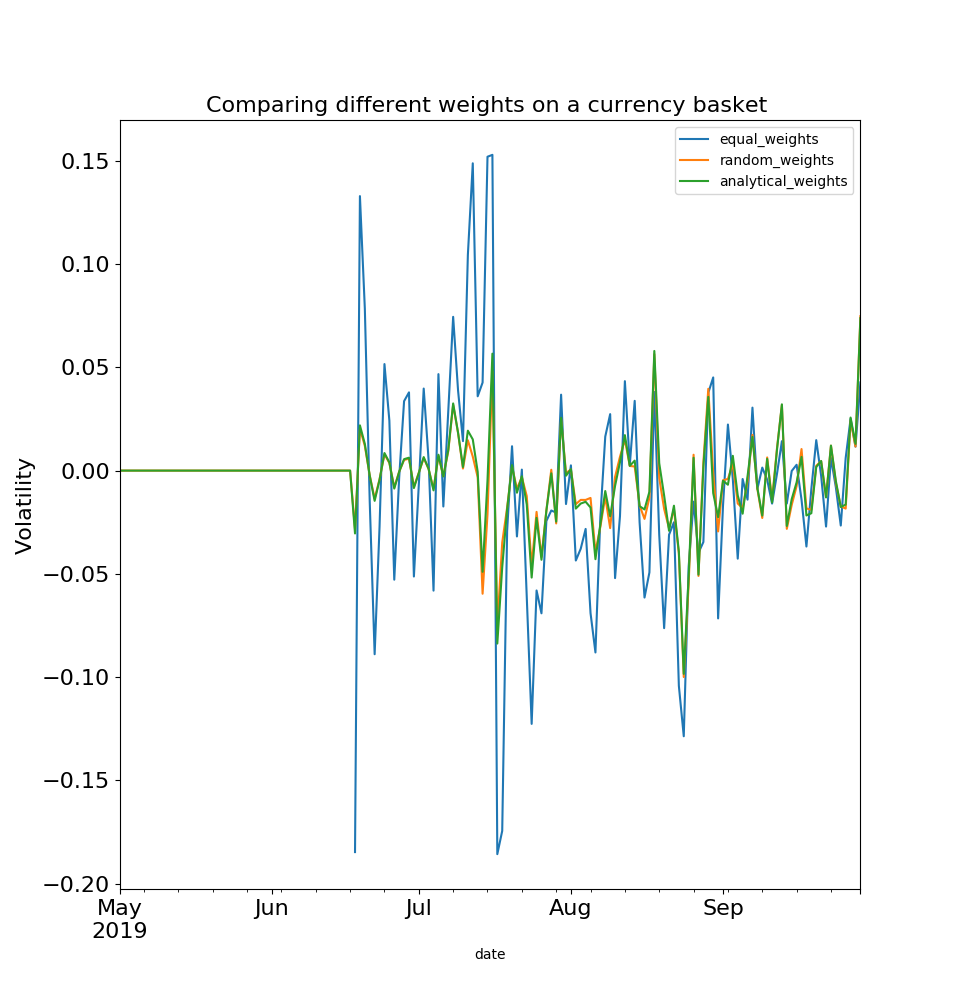
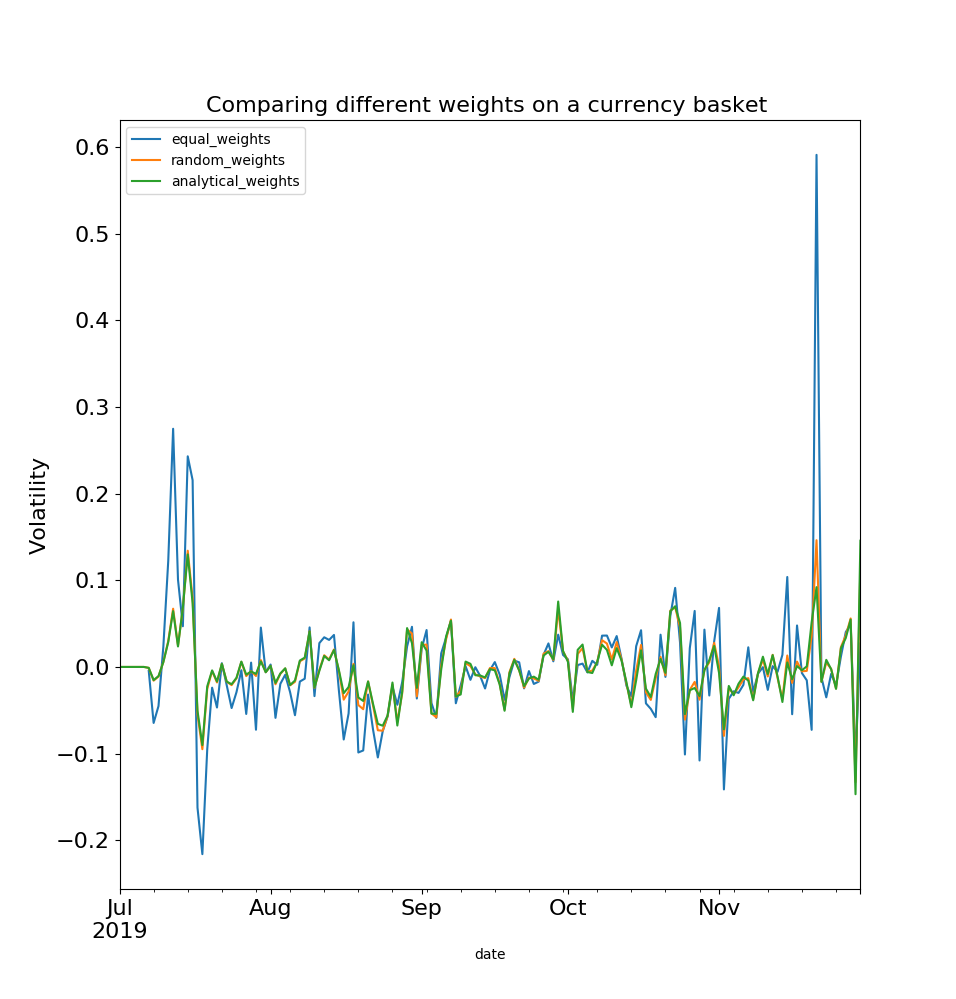
Updated dataset

diff --git a/scripts/stability_of_basket.py b/scripts/stability_of_basket.py
@@ -48,6 +48,11 @@ start_date = dt.datetime(2019,10,1)
 end_date = dt.datetime(2019,11,1)
 selected_symbols_oct = data_cleaning.universe_selection_on_volume(num_assets, start_date, end_date)
 
+#November
+start_date = dt.datetime(2019,11,1)
+end_date = dt.datetime(2019,12,1)
+selected_symbols_nov = data_cleaning.universe_selection_on_volume(num_assets, start_date, end_date)
+
 #Compare lists
 def symbols_diff(li1, li2): 
     li_dif = [i for i in li2 if i not in li1] 
@@ -67,6 +72,9 @@ diff = symbols_diff(selected_symbols_aug, selected_symbols_sep)
 
 diff = symbols_diff(selected_symbols_sep, selected_symbols_oct)
 #In Oct new larger volume symbols are ['CNNS-E16_BNB', 'AXPR-777_BNB']
+
+diff = symbols_diff(selected_symbols_oct, selected_symbols_nov)
+#In Nov new larger volume symbols are ['PYN-C37_BNB', 'EVT-49B_BNB']
 
 
 ###### 5 assets
@@ -107,10 +115,11 @@ start_date = dt.datetime(2019,10,1)
 end_date = dt.datetime(2019,11,1)
 selected_symbols_oct = data_cleaning.universe_selection_on_volume(num_assets, start_date, end_date)
 
-#Compare lists
-def symbols_diff(li1, li2): 
-    li_dif = [i for i in li2 if i not in li1] 
-    return li_dif 
+#November
+start_date = dt.datetime(2019,11,1)
+end_date = dt.datetime(2019,12,1)
+selected_symbols_nov = data_cleaning.universe_selection_on_volume(num_assets, start_date, end_date)
+
 
 #Jan-Mar have 0 symbols
 #April has 2, May has 7, June and onwards have at least 10
@@ -127,4 +136,5 @@ diff = symbols_diff(selected_symbols_aug, selected_symbols_sep)
 diff = symbols_diff(selected_symbols_sep, selected_symbols_oct)
 #In Oct new larger volume symbols is ['KAT-7BB_BNB']
 
-#Want to see how stable a given portfolio is in terms of resultant price
+diff = symbols_diff(selected_symbols_oct, selected_symbols_nov)
+#In Oct new larger volume symbols is ['MTV-4C6_BNB']

diff --git a/scripts/exploration.py b/scripts/exploration.py
@@ -2,11 +2,11 @@ import datetime as dt
 
 from scripts import data_cleaning
 
-start_date = dt.datetime(2019,9,1)
-end_date = dt.datetime(2019,9,30)
+start_date = dt.datetime(2019,1,1)
+end_date = dt.datetime(2019,12,1)
 
-selected_symbols = data_cleaning.universe_selection_on_volume(10, start_date, end_date)
+selected_symbols = data_cleaning.universe_selection_on_volume(5, start_date, end_date)
 
 #Things to look at: open, high, low, close, volume, quote_asset_volume, number_of_trades
-data_cleaning.data_explorer('number_of_trades', selected_symbols, start_date, end_date)
+data_cleaning.data_explorer('close', selected_symbols, start_date, end_date)
 

diff --git a/scripts/stablecoin.py b/scripts/stablecoin.py
@@ -13,8 +13,8 @@ from engine.portfolio_functions import simulated_ef
 from engine import portfolio_functions
 
 #Constant parameters
-start_date = dt.datetime(2019,5,1)
-end_date = dt.datetime(2019,9,30)
+start_date = dt.datetime(2019,7,1)
+end_date = dt.datetime(2019,12,1)
 num_assets = 5
 num_portfolios = 1000
 risk_free_rate = 0.02

diff --git a/scripts/data_cleaning.py b/scripts/data_cleaning.py
@@ -11,7 +11,7 @@ def load_from_pickle():
 	Function to load cached data from pickle file. 
 	'''
 	#Import raw data
-	file = open("./data/kline_data.pkl", 'rb')
+	file = open("./data/kline_data_new.pkl", 'rb')
 	df = pickle.load(file)
 
 	#Basic data processing

diff --git a/README.md b/README.md
@@ -36,6 +36,7 @@ This file contains functions for (i) loading in the pickled data file, (ii) sele
 
 This purpose of the analysis in this file is to understand how much variability there is in the composition of the stablecoin basket.
 For instance, if the 5 largest assets by volume are selected in one month, how many of these assets would be selected using data from the next month?
+
 **There appears to be significant volatility in terms of the membership of assets to the basket, with many pairs joining and leaving the top 10. Therefore the analysis mainly focusses on the top 5 assets by volume to keep the basket composition stable **
 
 In July, new larger volume symbols are ['PVT-554_BNB', 'BKBT-3A6_BNB', 'ERD-D06_BNB', 'MEETONE-031_BNB']
@@ -46,7 +47,7 @@ In Sept new larger volume symbols are ['MVL-7B0_BNB', 'NPXSXEM-89C_BNB']
 
 In Oct new larger volume symbols is ['KAT-7BB_BNB']
 
-**The basket for September (used in the analysis) is [CBM-4B2_BNB. MVL-7B0_BNB, RAVEN-F66_BNB, BKBT-3A6_BNB, NPSXEM-89C_BNB]**
+**The basket for the period 1 July - 30 Nov (used in the analysis) is ['CBM-4B2_BNB', 'PVT-554_BNB', 'BKBT-3A6_BNB', 'MVL-7B0_BNB', 'NPXSXEM-89C_BNB']**
 
 ### weights_variation.py
 
@@ -65,7 +66,16 @@ This is the main file, which shows how the volatility (returns) can be dampened 
 
 Three methods are compared: (i) equal weighting (a naive portfolio); (ii) using weights from random sampling and (iii) minimizing the weights using SciPy. 
 See the following figure.
+
 **It shows a significant reduction in the volatility of returns for a stablecoin-basket where weights are used.**
+
+For the following figure the weights are chosen to minimize the variance over the period 1 July to 30 Nov, and are as follows. 
+
+CBM-4B2 - 0.077092
+PVT-554 - 0.230077
+BKBT-3A6 - 0.030297
+MVL-7B0 - 0.442056
+NPXSXEM-89C - 0.220478
 
 ![Improvement in volatility through variance minimization](figs/Figure_3.png)
 
